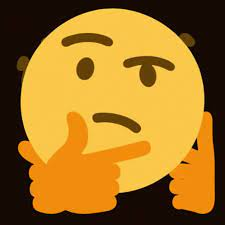
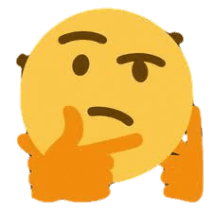
404 image background removal and redundant class removed

diff --git a/app/templates/error.html b/app/templates/error.html
@@ -8,9 +8,7 @@
 
     <p class="centered">Bitte kehre mithilfe der Navbar zur Webseite zurück.</p>
 
-    <div class="centerContainer">
-        <img src="{{url_for('static', filename='error_Image_Thinking.png')}}" id="thinkingImageError">
-    </div>
+    <img src="{{url_for('static', filename='error_Image_Thinking.png')}}" alt="Denkender Emoji" id="thinkingImageError">
 </div>
 
 {% endblock %}

diff --git a/app/static/styles.css b/app/static/styles.css
@@ -22,11 +22,6 @@ hr {
     border-width: 3px;
 }
 
-.centerContainer {
-    display: flex;
-    justify-content: center;
-}
-
 /*** dropdownicon ***/
 :root {
     --dropdownicon_height: 80px;
